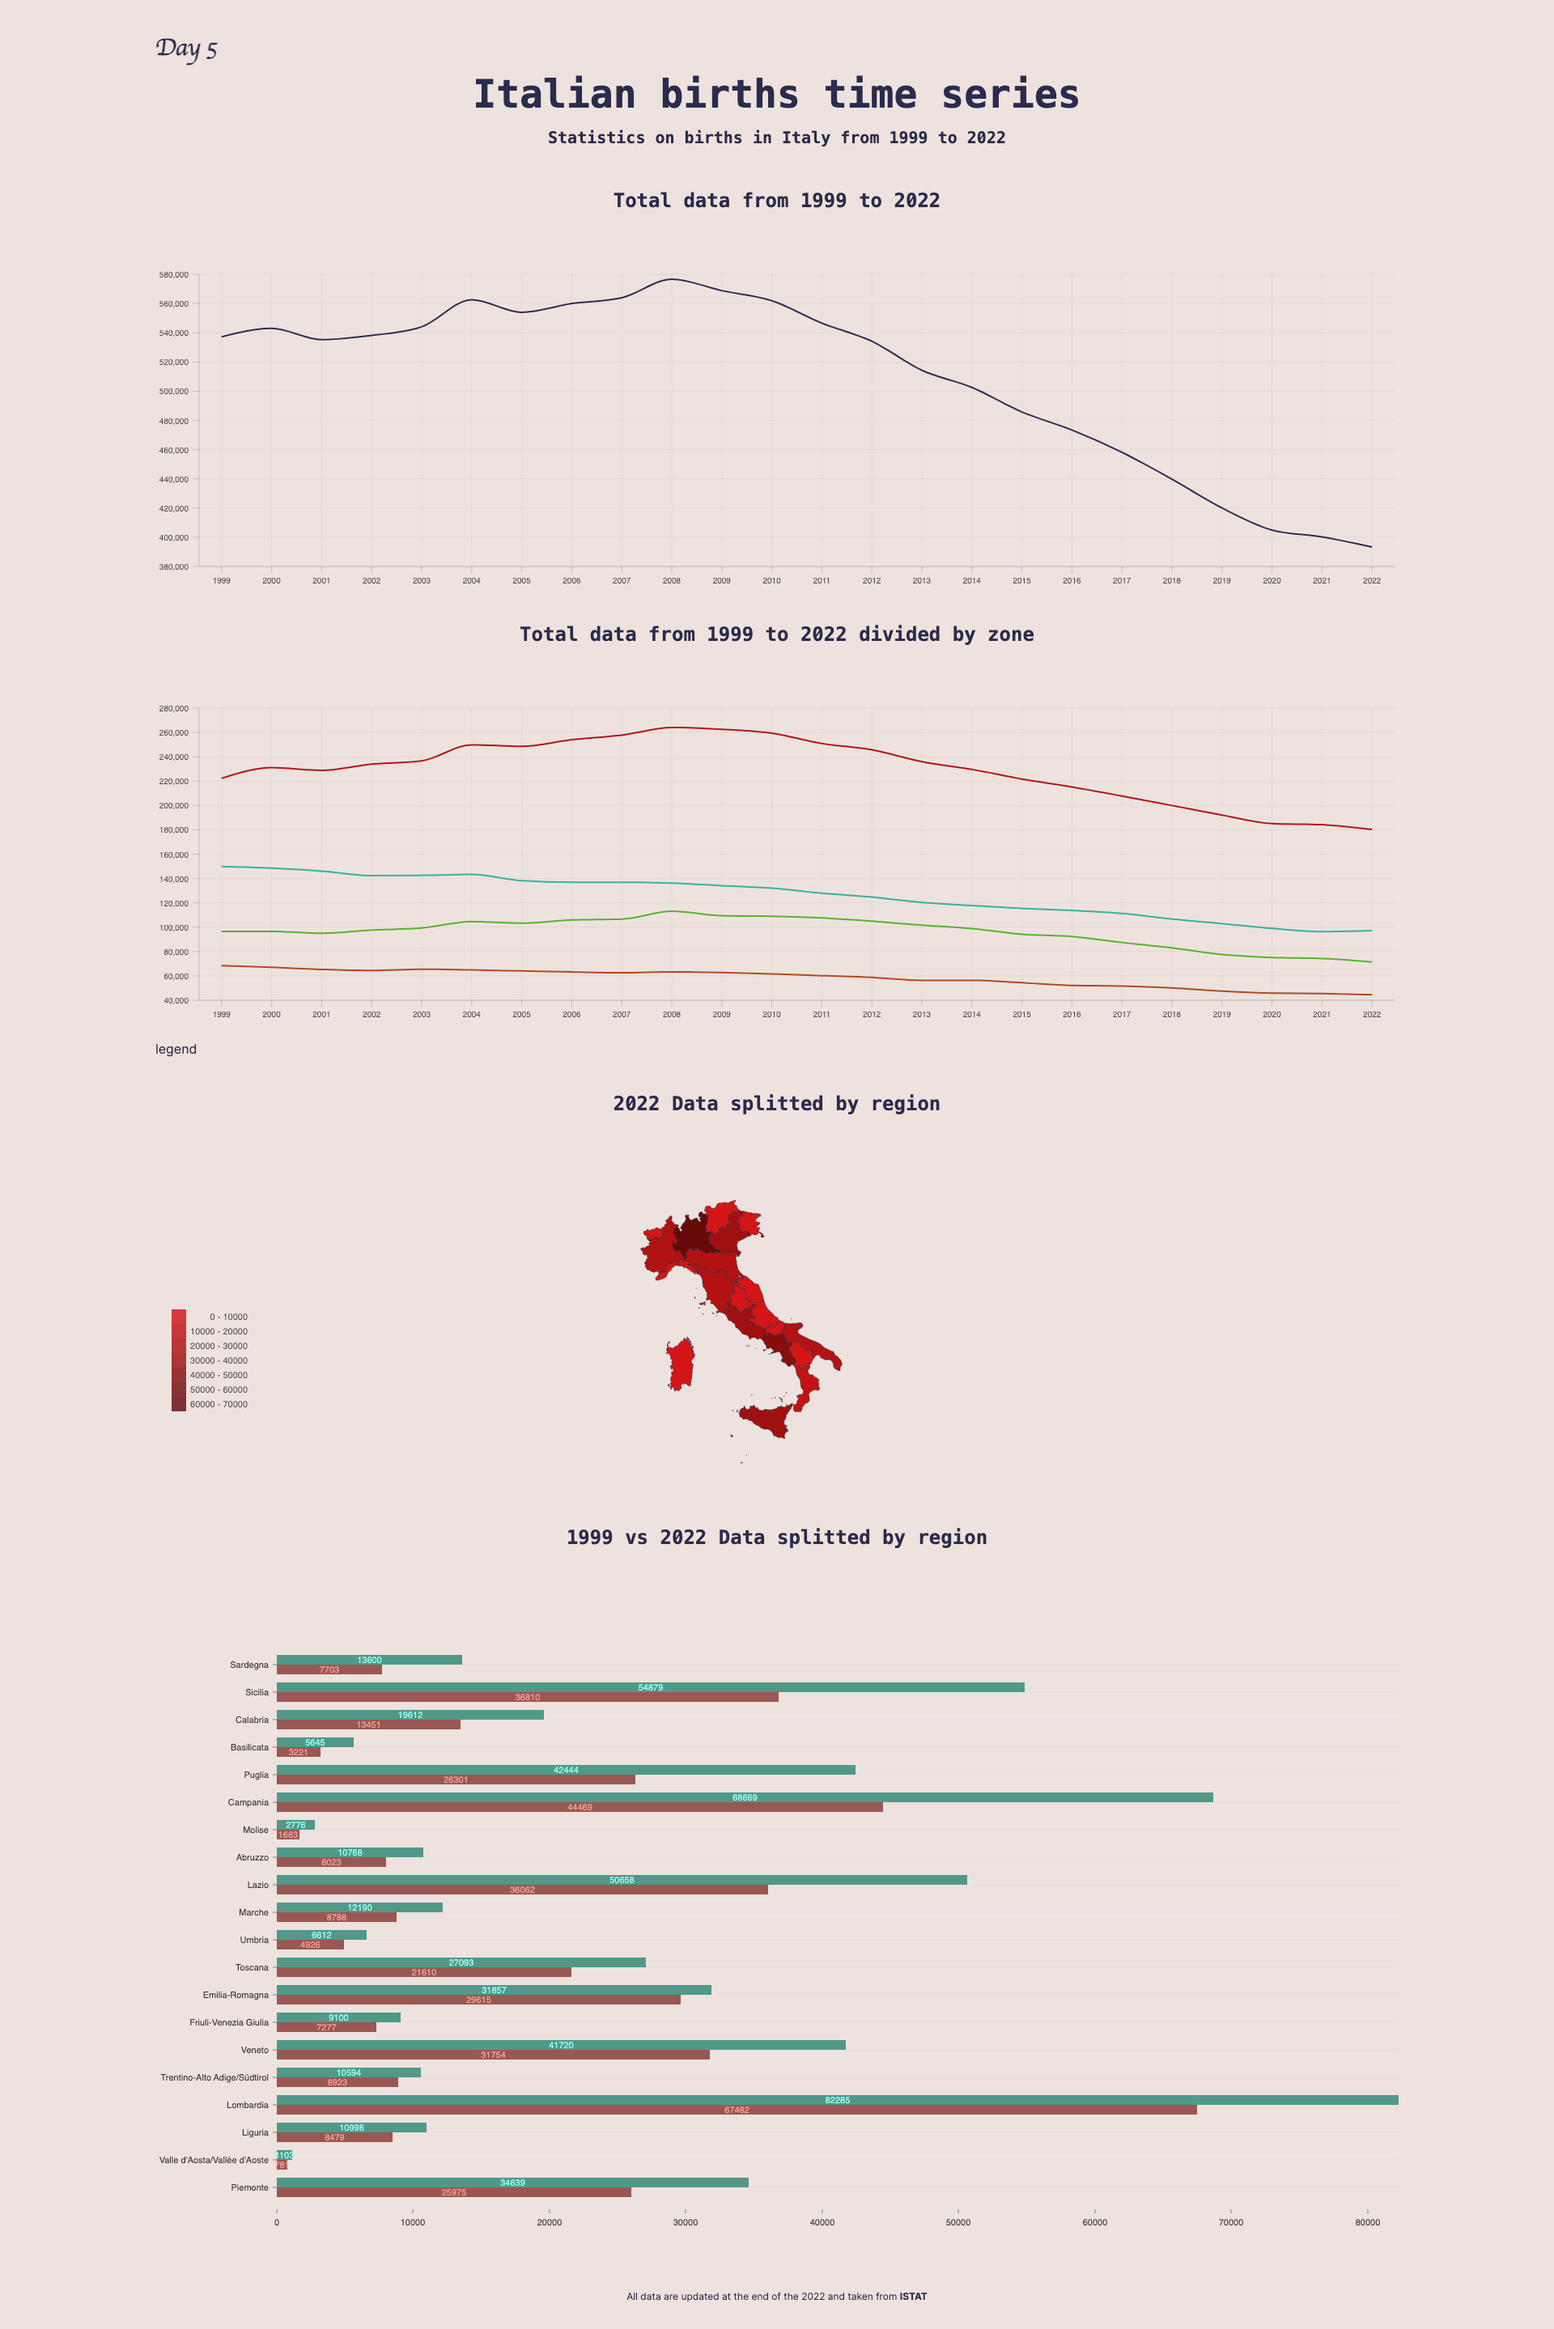
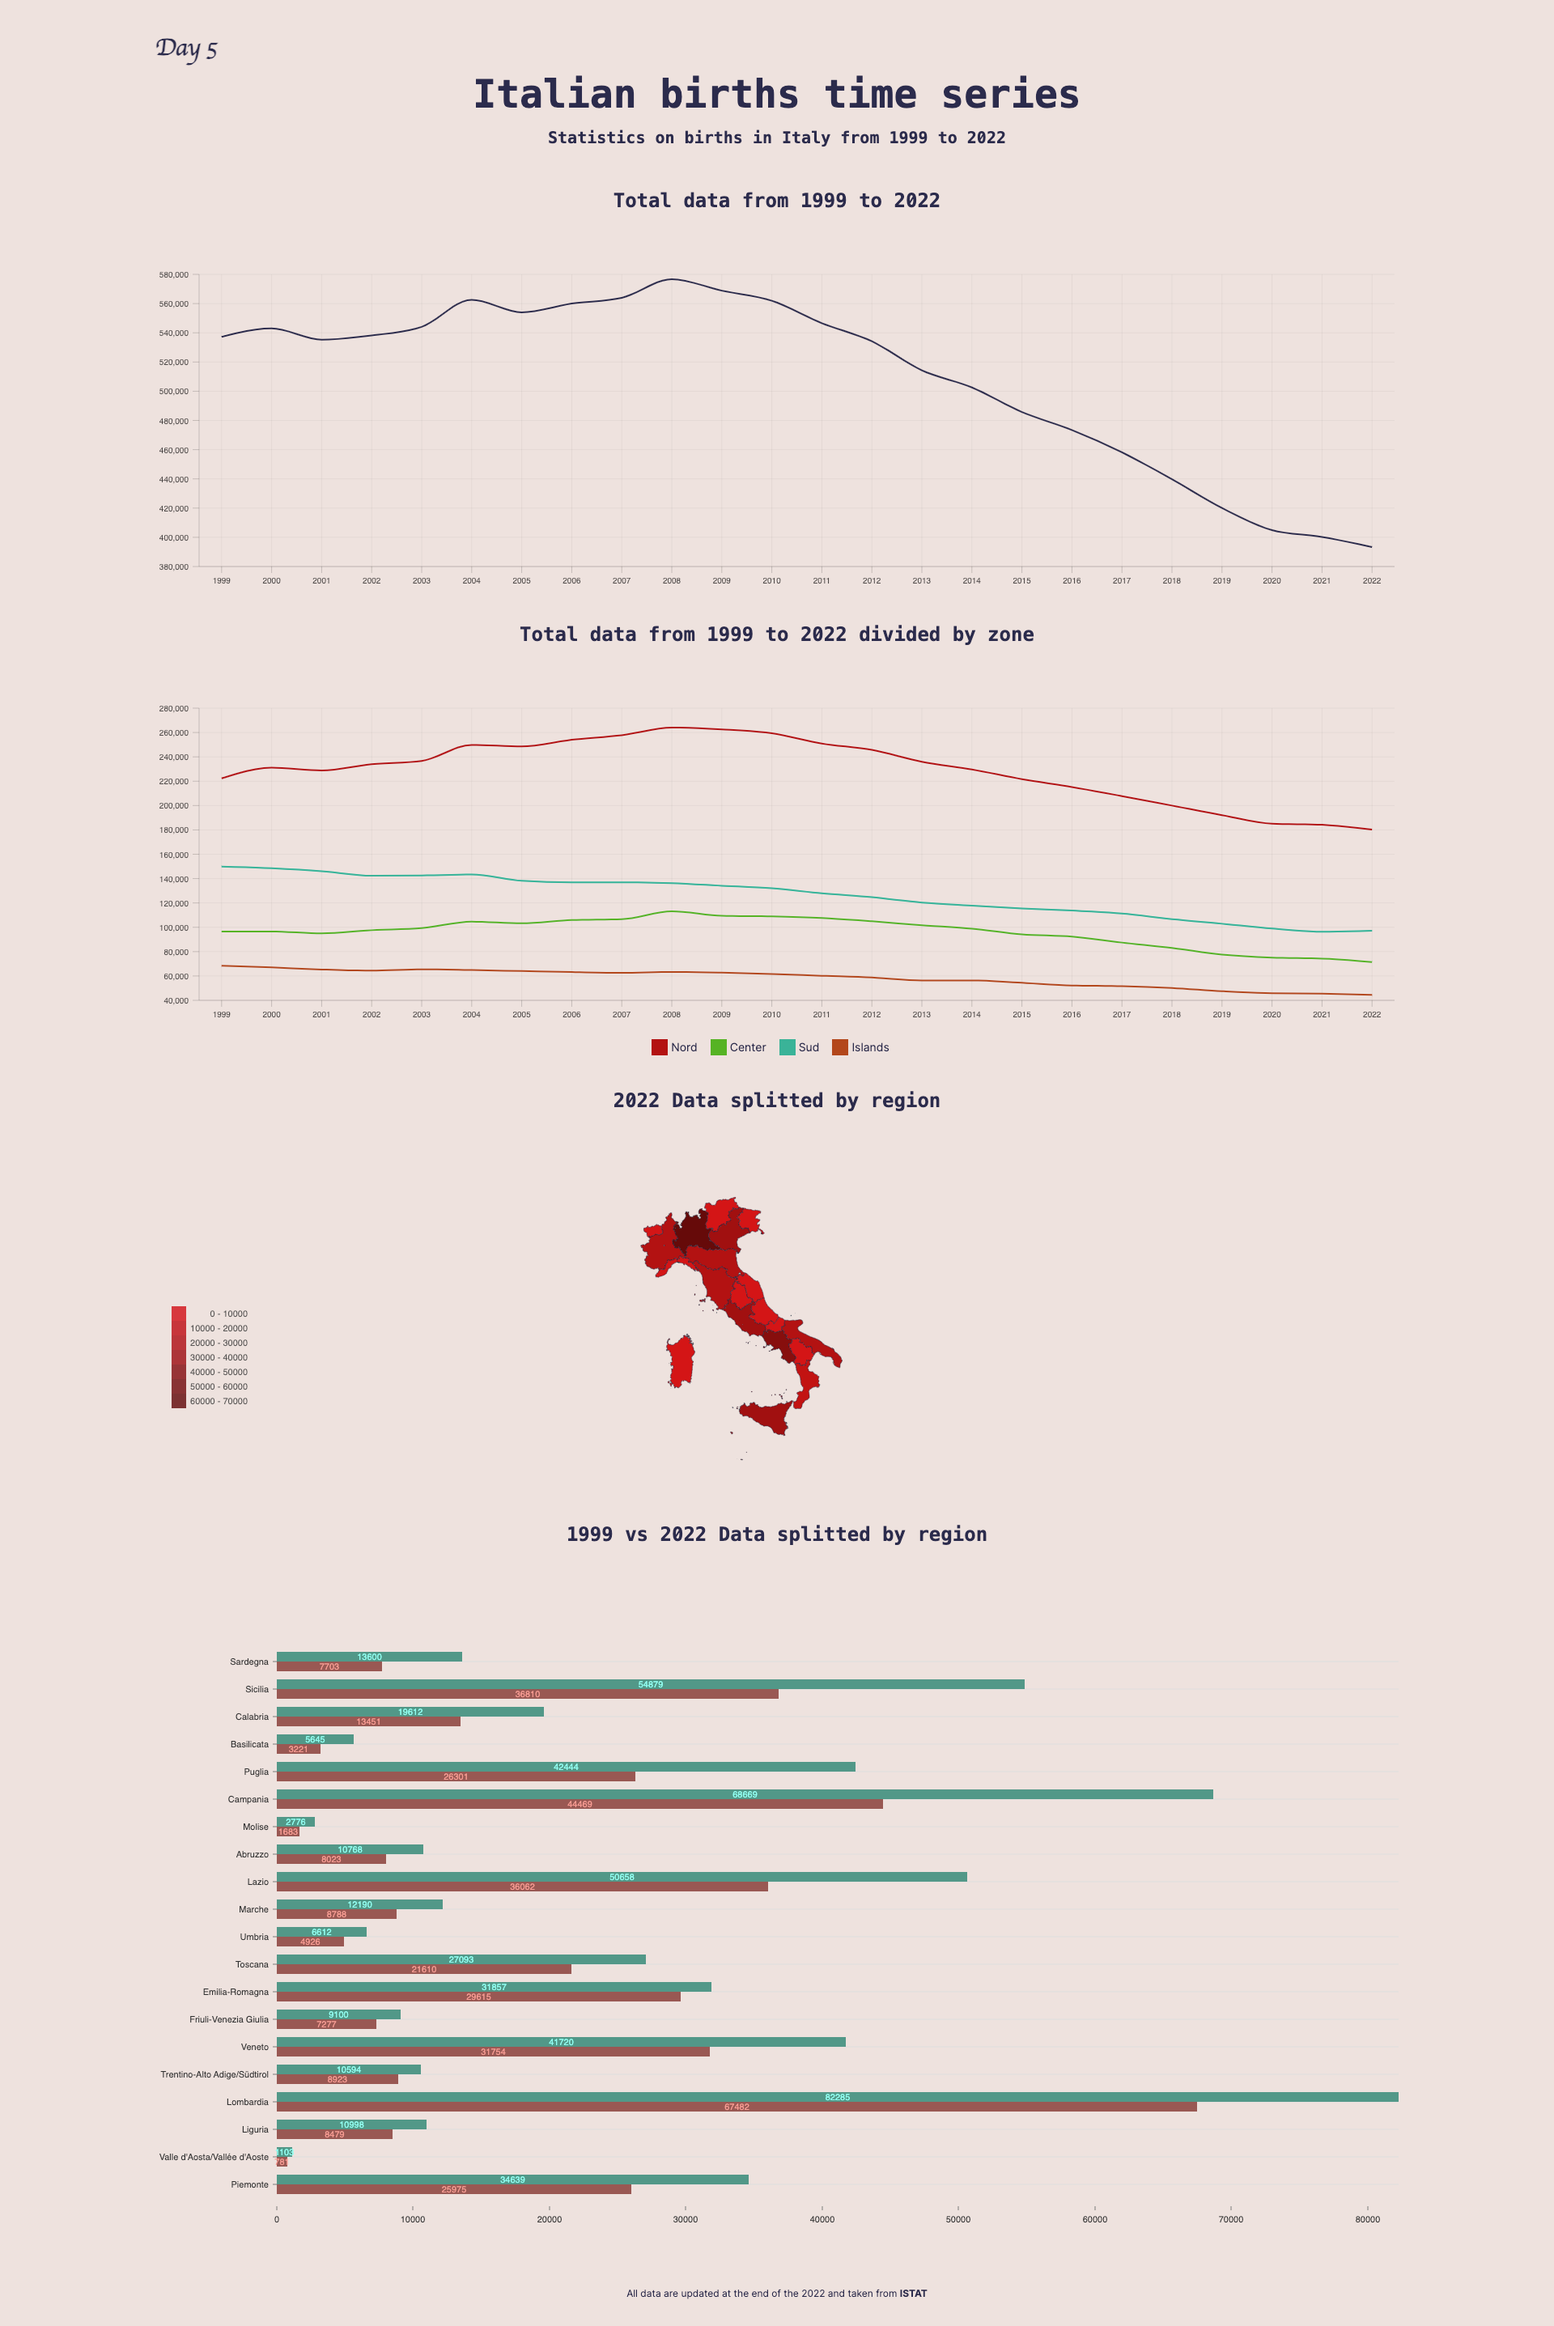
feat(legend): custom legend component

diff --git a/src/app/day/5/page.jsx b/src/app/day/5/page.jsx
@@ -3,6 +3,7 @@ import './page.css';
 import NivoBar from '@internal/components/Charts/Nivo/Bar';
 import NivoItalyChoropleth from '@internal/components/Charts/Nivo/ItalianChrorepleth';
 import ReactChartsLine from '@internal/components/Charts/ReactCharts/Line';
+import Legend from '@internal/components/Legend/Legend';
 
 import {
   italyTotalData,
@@ -47,7 +48,14 @@ const Page5 = () => {
             width='100%'
           />
         </div>
-        <p>legend</p>
+        <Legend
+          options={[
+            { color: '#B31212', label: 'Nord' },
+            { color: '#56B324', label: 'Center' },
+            { color: '#00B398', label: 'Sud' },
+            { color: '#B3471B', label: 'Islands' },
+          ]}
+        />
       </section>
       <section id='last-year-by-region' className='mt-10'>
         <h4 className='mb-16 text-center font-mono text-2xl font-bold'>

diff --git a/src/components/Legend/Legend.jsx b/src/components/Legend/Legend.jsx
@@ -1,0 +1,19 @@
+const Legend = ({ options = [{ color: 'red', label: 'test' }] }) => {
+  return (
+    <div className='legend-container flex justify-center'>
+      {options.map((el) => {
+        return (
+          <div key={el.label} className='legend-element flex mr-4'>
+            <div
+              className='w-[20px] h-[20px] mr-1'
+              style={{ backgroundColor: el.color }}
+            />
+            <p className='text-sm'>{el.label}</p>
+          </div>
+        );
+      })}
+    </div>
+  );
+};
+
+export default Legend;
